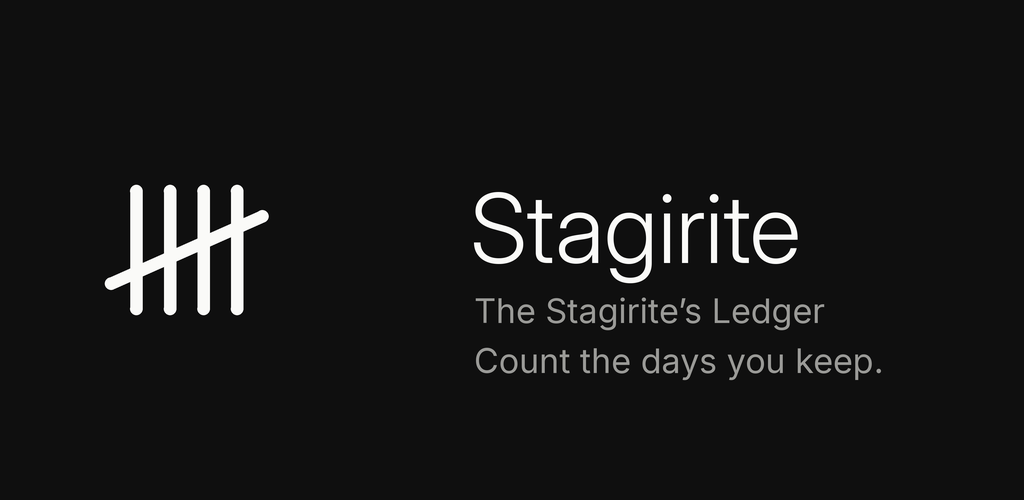
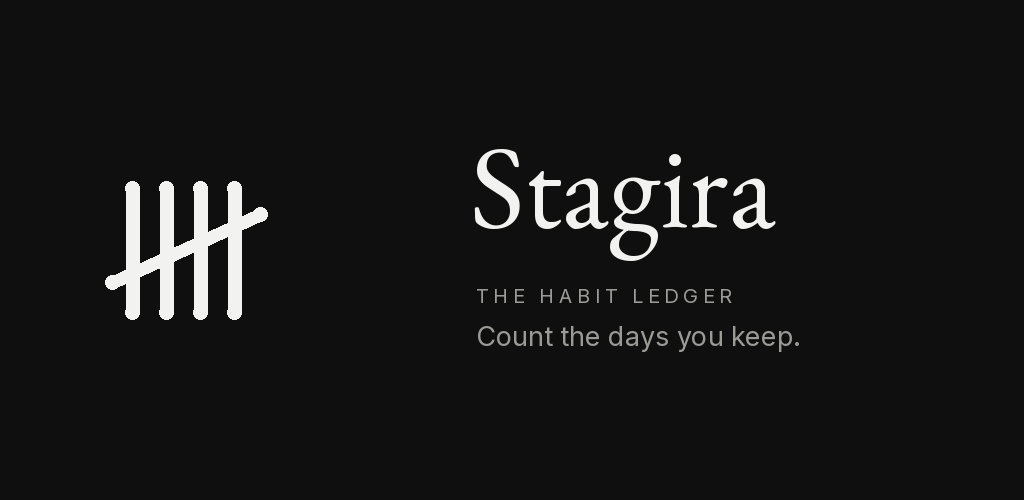
Store listing and feature graphic for the name Stagira [skip ci]
Claude-Session: https://claude.ai/code/session_01To1yBwK2qjbmJgLNeYtSLA

diff --git a/docs/play-store/store-listing.md b/docs/play-store/store-listing.md
@@ -1,4 +1,4 @@
-# Store listing (draft)
+# Store listing
 
 ## App name (30 characters max)
 
@@ -6,28 +6,27 @@
 
 ## Short description (80 characters max)
 
-Count the days you keep. A private, quiet ledger for habits you're building or breaking.
+Count the days you keep. A private, quiet ledger for the habits that shape you.
 
 ## Full description (4,000 characters max)
 
 Stagira is a quiet record of the days you keep.
 
-Name something you want to do less of, a Vice, or more of, a Virtue, and the ledger counts the
-days. Slip, and you log it in a couple of taps: the count starts again, and every day you kept
-stays in your history.
+Tackle a vice, something to stop or cut down on, like drinking less. Or practise a virtue, something good to do each day, like one good deed. Good days count on their own: there's nothing to log unless something goes wrong. If you slip, log it in a couple of taps and begin again. The run you had stays in your history.
 
-Aristotle, born in Stagira, held that character is built by habit, through doing. Stagira
-counts the doing.
+Aristotle, born in Stagira, taught that character isn't something we're born with but something we build, one habit at a time. Stagira keeps count of the days you put in.
 
 WHAT IT DOES
-• Day counts for any number of goals, from today or a day in the past
-• Vices and Virtues, with Virtues on the weekdays you choose; rest days never count against you
+• Day counts for any number of goals, started today or on a day in the past
 • Log a slip for today, yesterday or any earlier day, with an optional note
-• Log urges you resisted; they're shown as strength, never against you
-• Milestones from 1 day to years, with a quiet celebration when you reach one
+• Hold + for Quick log: any goal's slip, or an urge you resisted, without opening it
+• Milestones from your first day to years ahead, falling on the real anniversary
 • Progress measured by the gaps between slips: are your runs getting longer?
-• Month and year calendars, stats, run-length charts and a weekly review
-• Targets, archive, sorting, automatic backup, home-screen widgets and daily or weekly reminders
+• Calendars, stats, run charts and a weekly review
+• Virtues on the weekdays you choose; rest days never count against you
+• Home-screen widgets: one goal, an overview, or several goals at once
+• Automatic backup to a file you choose, plus export and import
+• Daily or weekly reminders, and a milestone note on the day you reach one
 • Optional passages from Aristotle's Nicomachean Ethics, quoted word for word and sourced
 
 PRIVATE BY DESIGN
@@ -35,21 +34,15 @@ PRIVATE BY DESIGN
 • Your ledger is kept on your phone
 • Optional sync to your own Google Drive, end-to-end encrypted with a passphrase if you like
 • App lock with fingerprint, face or screen lock
-• Private titles: show a cover name, keep the real one behind a PIN
-• Private goals and a locked app never show their names in reminders or widgets
+• Private titles: show a cover name, and keep the real one behind a PIN
 
 FREE, WITH A ONE-TIME PLUS
-Everything you need to count, log and look back is free, along with the app lock, private titles
-and export. Stagira Plus, one payment and no subscription, adds unlimited goals (free holds
-3), Google Drive sync, the Goals widget (several goals at once), and insights: the Progress card, year view and weekly
-review. There's also a tip jar, and an optional ad you can watch to support the app.
+Counting, logging, history, the app lock, private titles, backup and two widgets are free. Stagira Plus, one payment and no subscription, adds unlimited goals (free holds 3), Google Drive sync, the multi-goal widget, and insights: the progress card, year view and weekly review. There's also a tip jar, and an optional ad you can watch to support the app.
 
 CALM BY DESIGN
-Black and white, light and dark, no badges or streak-shaming. Turn off the quotes,
-celebrations or vibration if you'd rather it say less.
+Black and white, light and dark, no badges and no streak-shaming. Turn off the quotes, celebrations or vibration if you'd rather it say less.
 
-Stagira is a personal tracker, not medical advice or treatment. If you're struggling with
-alcohol, drugs or gambling, please also reach out to a doctor or a local support service.
+Stagira is a personal tracker, not medical advice or treatment. If you're struggling with alcohol, drugs or gambling, please also reach out to a doctor or a local support service.
 
 ## Category
 
